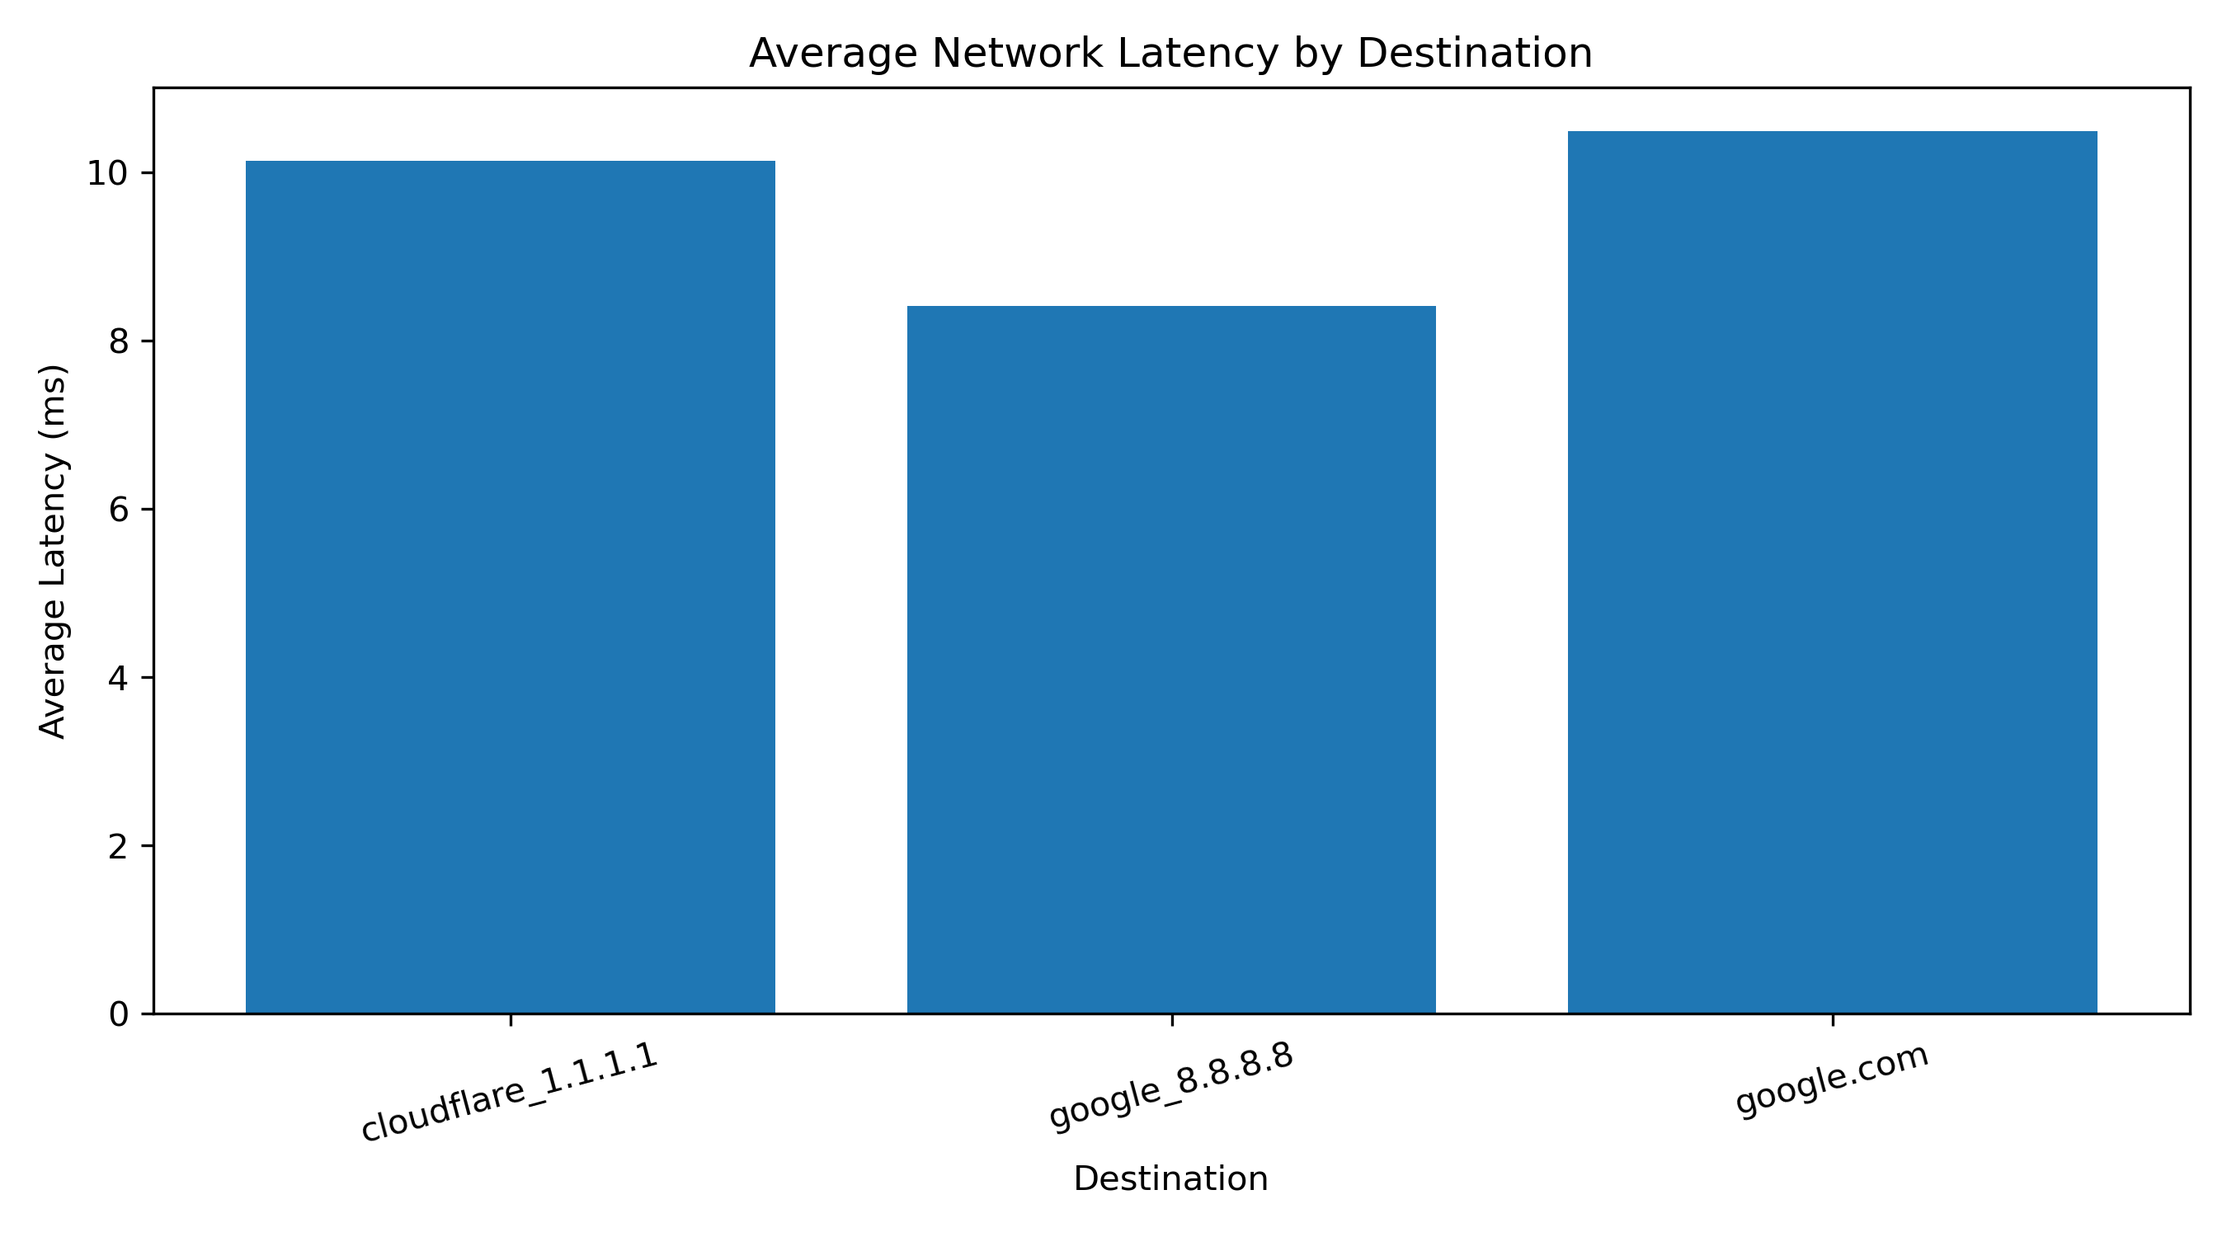
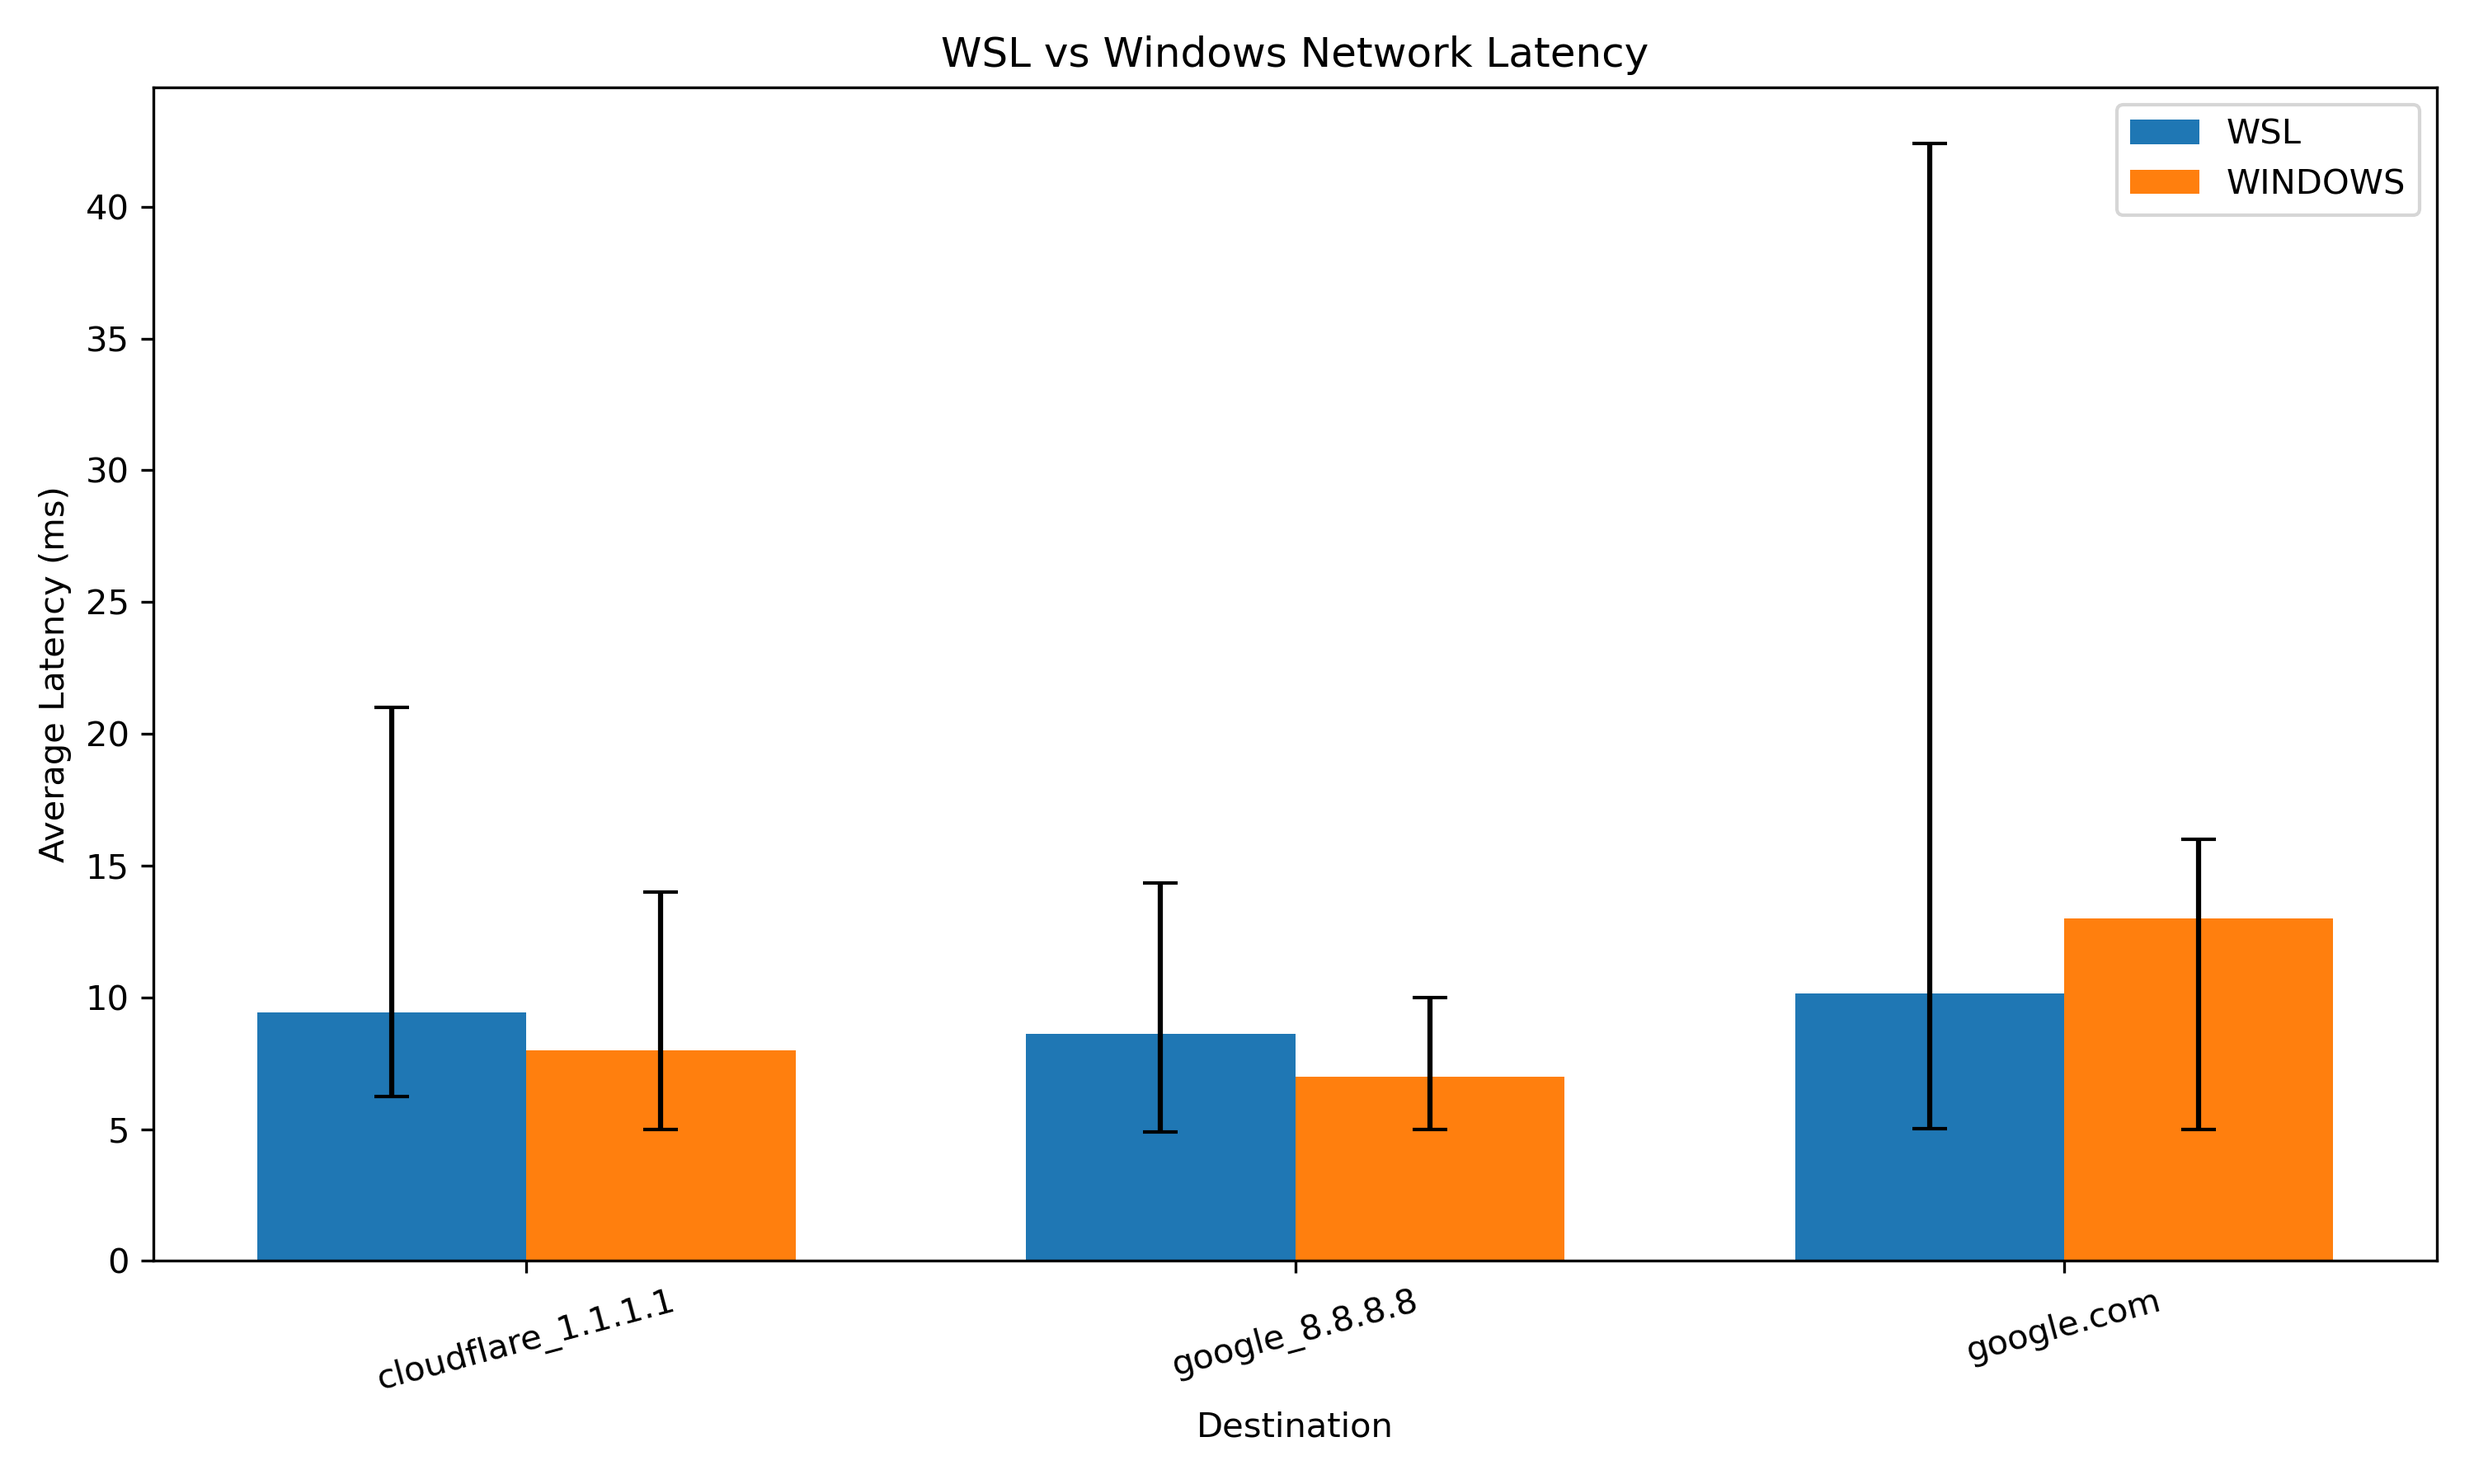
Add Windows vs WSL network reliability analysis

diff --git a/scripts/analyze_results.py b/scripts/analyze_results.py
@@ -1,11 +1,13 @@
 import csv
 import os
 import statistics
+from pathlib import Path
 import matplotlib.pyplot as plt
 
-FILE_PATH = "../data/automated-network-tests.csv"
-RESULTS_DIR = "../results"
-GRAPH_PATH = os.path.join(RESULTS_DIR, "latency_comparison.png")
+PROJECT_DIR = Path(__file__).resolve().parent.parent
+FILE_PATH = PROJECT_DIR / "data" / "automated-network-tests.csv"
+RESULTS_DIR = PROJECT_DIR / "results"
+GRAPH_PATH = RESULTS_DIR / "latency_comparison.png"
 
 data = {}
 
@@ -13,40 +15,91 @@ with open(FILE_PATH, "r") as file:
     reader = csv.DictReader(file)
 
     for row in reader:
+        environment = row["environment"]
         destination = row["destination"]
-        latency = float(row["avg_latency_ms"])
+        key = (environment, destination)
 
-        if destination not in data:
-            data[destination] = []
+        if key not in data:
+            data[key] = {
+                "averages": [],
+                "minimums": [],
+                "maximums": [],
+                "packet_loss": []
+            }
 
-        data[destination].append(latency)
+        data[key]["averages"].append(float(row["avg_latency_ms"]))
+        data[key]["minimums"].append(float(row["min_latency_ms"]))
+        data[key]["maximums"].append(float(row["max_latency_ms"]))
+        data[key]["packet_loss"].append(float(row["packet_loss_percent"]))
 
 print("\nNetwork Reliability Analysis")
 print("----------------------------")
 
-for destination, latencies in data.items():
-    average = statistics.mean(latencies)
-    minimum = min(latencies)
-    maximum = max(latencies)
+for (environment, destination), results in data.items():
+    average = statistics.mean(results["averages"])
+    minimum = min(results["minimums"])
+    maximum = max(results["maximums"])
+    packet_loss = statistics.mean(results["packet_loss"])
 
-    print(f"\n{destination}")
+    print(f"\n{environment.upper()} - {destination}")
     print(f"  Average latency: {average:.2f} ms")
     print(f"  Minimum latency: {minimum:.2f} ms")
     print(f"  Maximum latency: {maximum:.2f} ms")
+    print(f"  Packet loss: {packet_loss:.2f}%")
 
-os.makedirs(RESULTS_DIR, exist_ok=True)
+RESULTS_DIR.mkdir(exist_ok=True)
 
-destinations = list(data.keys())
-averages = [statistics.mean(data[d]) for d in destinations]
+destinations = [
+    "cloudflare_1.1.1.1",
+    "google_8.8.8.8",
+    "google.com"
+]
 
-plt.figure(figsize=(9, 5))
-plt.bar(destinations, averages)
+environments = ["wsl", "windows"]
+
+x = list(range(len(destinations)))
+width = 0.35
+
+plt.figure(figsize=(10, 6))
+
+for i, environment in enumerate(environments):
+    averages = []
+    lower_errors = []
+    upper_errors = []
+
+    for destination in destinations:
+        key = (environment, destination)
+
+        if key in data:
+            average = statistics.mean(data[key]["averages"])
+            minimum = min(data[key]["minimums"])
+            maximum = max(data[key]["maximums"])
+
+            averages.append(average)
+            lower_errors.append(average - minimum)
+            upper_errors.append(maximum - average)
+        else:
+            averages.append(0)
+            lower_errors.append(0)
+            upper_errors.append(0)
+
+    positions = [value + (i - 0.5) * width for value in x]
+
+    plt.bar(
+        positions,
+        averages,
+        width,
+        yerr=[lower_errors, upper_errors],
+        capsize=5,
+        label=environment.upper()
+    )
+
 plt.xlabel("Destination")
 plt.ylabel("Average Latency (ms)")
-plt.title("Average Network Latency by Destination")
-plt.xticks(rotation=15)
+plt.title("WSL vs Windows Network Latency")
+plt.xticks(x, destinations, rotation=15)
+plt.legend()
 plt.tight_layout()
-
 plt.savefig(GRAPH_PATH, dpi=300)
 
 print("\nGraph saved to:", GRAPH_PATH)

diff --git a/scripts/network_test.py b/scripts/network_test.py
@@ -3,8 +3,12 @@ import re
 import csv
 import os
 import time
+from pathlib import Path
 
-ENVIRONMENT = "wsl"
+if os.name == "nt":
+    ENVIRONMENT = "windows"
+else:
+    ENVIRONMENT = "wsl"
 
 DESTINATIONS = {
     "cloudflare_1.1.1.1": "1.1.1.1",
@@ -13,35 +17,52 @@ DESTINATIONS = {
 }
 
 TEST_ROUNDS = 5
-FILE_PATH = "../data/automated-network-tests.csv"
+FILE_PATH = str(Path(__file__).resolve().parent.parent / "data" / "automated-network-tests.csv")
 
 
 def run_ping(destination):
     result = subprocess.run(
-        ["ping", "-c", "4", destination],
+        ["ping", "-n", "4", destination] if os.name == "nt"
+        else ["ping", "-c", "4", destination],
         capture_output=True,
         text=True
     )
 
     output = result.stdout
 
-    packet_loss_match = re.search(r"(\d+)% packet loss", output)
+    if os.name == "nt":
+        packet_loss_match = re.search(r"\((\d+)% loss\)", output)
 
-    latency_match = re.search(
-        r"rtt min/avg/max/mdev = ([\d.]+)/([\d.]+)/([\d.]+)/([\d.]+)",
-        output
-    )
+        latency_match = re.search(
+            r"Minimum = ([\d.]+)ms, Maximum = ([\d.]+)ms, Average = ([\d.]+)ms",
+            output
+        )
 
-    if packet_loss_match and latency_match:
-        return {
-            "packet_loss": float(packet_loss_match.group(1)),
-            "min_latency": float(latency_match.group(1)),
-            "avg_latency": float(latency_match.group(2)),
-            "max_latency": float(latency_match.group(3))
-        }
+        if packet_loss_match and latency_match:
+            return {
+                "packet_loss": float(packet_loss_match.group(1)),
+                "min_latency": float(latency_match.group(1)),
+                "avg_latency": float(latency_match.group(3)),
+                "max_latency": float(latency_match.group(2))
+            }
+
+    else:
+        packet_loss_match = re.search(r"(\d+)% packet loss", output)
+
+        latency_match = re.search(
+            r"rtt min/avg/max/mdev = ([\d.]+)/([\d.]+)/([\d.]+)/([\d.]+)",
+            output
+        )
+
+        if packet_loss_match and latency_match:
+            return {
+                "packet_loss": float(packet_loss_match.group(1)),
+                "min_latency": float(latency_match.group(1)),
+                "avg_latency": float(latency_match.group(2)),
+                "max_latency": float(latency_match.group(3))
+            }
 
     return None
-
 
 def save_result(destination_name, result, test_number):
     file_exists = os.path.exists(FILE_PATH)
